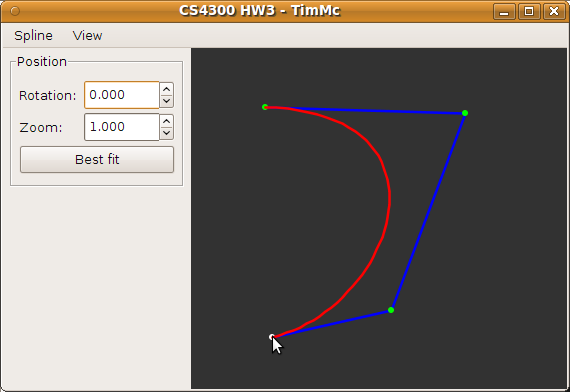
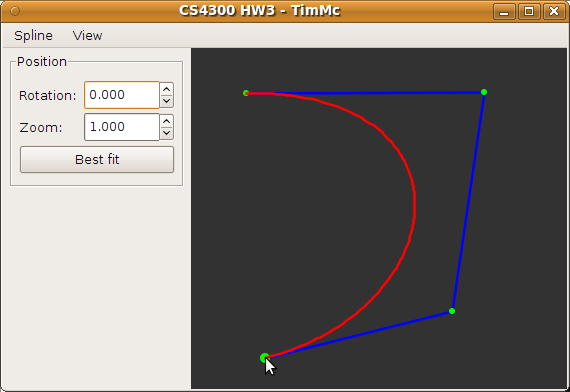
Ready for 1.1.0 release: * Add changelog in NEWS.md * Update docs

Changed region(s): [[0.4175, 0.2143, 0.8649, 0.949], [0.7754, 0.3367, 0.8351, 0.6735], [0.7158, 0.6735, 0.8053, 0.8265]]

diff --git a/doc/index.html b/doc/index.html
@@ -9,7 +9,7 @@
 </head>
 <body>
 
-<i>This documents version 1.0.0 of the application.</i>
+<i>This documents version 1.1.0 of the application.</i>
 
 <h1>Overview</h1>
 
@@ -27,8 +27,8 @@ your system&mdash;32-bit and 64-bit Java do not work together.</p>
 
 <h1>Running</h1>
 
-<p>Run the <tt>timmc.HW3-standalone.jar</tt> file by double-clicking on it
-or by running <tt>java -jar timmc.HW3-standalone.jar</tt> from
+<p>Run the <tt>timmcHW3-standalone.jar</tt> file by double-clicking on it
+or by running <tt>java -jar timmcHW3-standalone.jar</tt> from
 the parent directory on the command line.</p>
 
 <h1>Usage</h1>
@@ -52,11 +52,14 @@ and the entire image is updated in realtime during the action.</p>
 
 <p>Addition and repositioning of vertices may both be undone and redone in the
 standard fashion. The Spline menu contains Undo and Redo buttons and shows their
-keyboard shortcuts.</p>
+keyboard shortcuts.
+It also contains a Clear command, deleting all vertices at once,
+which is also undoable and redoable.</p>
 
 <p>The viewport may be rotated or zoomed using the spinners in the Position
-panel. If you lose track of the curve by zooming in too far, the Best Fit
-button will reposition the viewport to show the polygon again.</p>
+panel. Additionally, dragging the canvas will move the viewpoint as indicated.
+If you lose track of the curve by zooming in too far or dragging, the Best Fit
+button will reposition the viewpoint to show the polygon again.</p>
 
 <p>Although there is not yet a render/export feature, the View menu does
 contain a toggle with which to hide the control polygon. Screen captures may

diff --git a/NEWS.md b/NEWS.md
@@ -1,0 +1,41 @@
+# Changelog
+
+## v1.1.0 (2011-03-14)
+
+Post-submission enhancements.
+
+### Features
+
+* Menu item to clear board (undoable)
+* Viewpoint draggable
+* Changed hover appearance of vertices (large and green instead of normal-sized
+  but white)
+
+### Enhancements
+
+* Prefer to pick most recently placed vertex
+
+### Bug fixes
+
+* Hover vertex immediately after creation
+* Clear hover when undoing vertex under pointer
+* Block user from zooming in so far that floating-point error becomes visible
+* Maintain delta from dragging pointer to vertex center during drag (otherwise
+  center of vertex jumps to pointer)
+
+## v1.0.0 (2011-02-23)
+
+First public release, official submission as homework.
+
+[Semantic versioning](http://semver.org/) starts at this version.
+
+### Features
+
+* Display control polygon, vertices, and Bézier curve
+* Menu item to toggle display of control polygon and vertices when curve is
+  present and at least cubic (with keybinding)
+* Place and drag vertices with mouse (live update)
+* Spinners to rotate and zoom canvas (live update)
+* "Best fit" button to show linear or larger curve at greatest zoom without
+  cropping
+* Full undo/redo history (with keybindings) for vertices (and thus curve)
